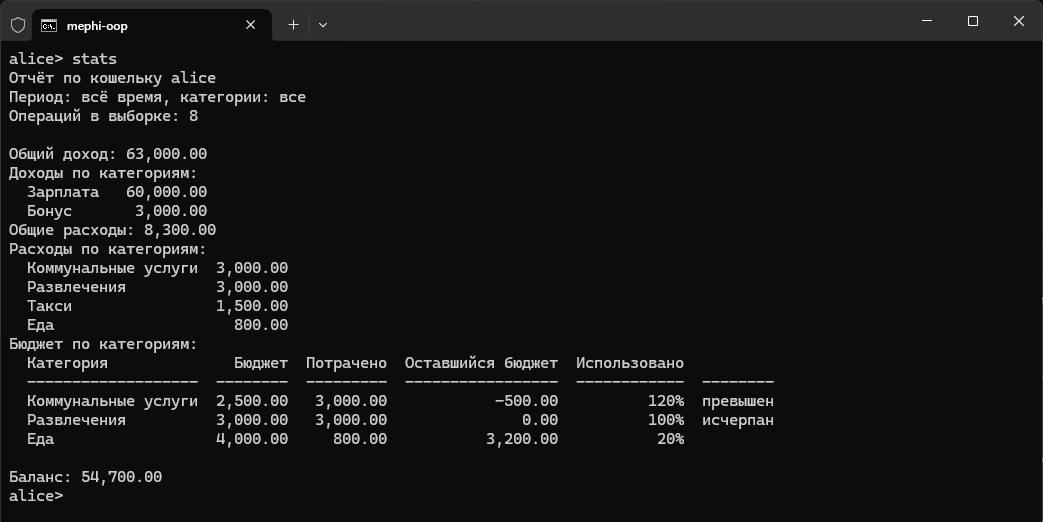
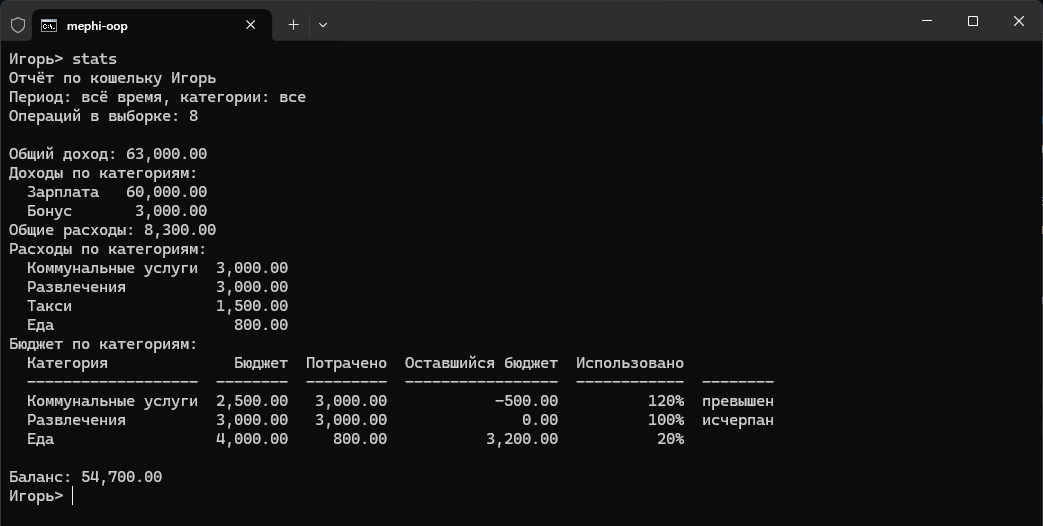
Логин на кириллице, скриншоты с пользователем Игорь

diff --git a/src/main/java/ru/mephi/finance/service/AuthService.java b/src/main/java/ru/mephi/finance/service/AuthService.java
@@ -13,7 +13,7 @@ import java.util.regex.Pattern;
 
 public final class AuthService {
 
-    private static final Pattern LOGIN = Pattern.compile("[A-Za-z0-9_.-]{3,32}");
+    private static final Pattern LOGIN = Pattern.compile("[\\p{L}\\p{N}_.-]{3,32}");
     private static final int MIN_PASSWORD_LENGTH = 4;
     private static final int MAX_PASSWORD_LENGTH = 64;
 
@@ -56,7 +56,7 @@ public final class AuthService {
     private void validateLogin(String login) {
         if (login == null || !LOGIN.matcher(login).matches()) {
             throw new ValidationException(
-                    "Логин должен состоять из 3-32 символов: латинские буквы, цифры, знаки _ . -");
+                    "Логин должен состоять из 3-32 символов: буквы, цифры, знаки _ . -");
         }
     }
 

diff --git a/src/test/java/ru/mephi/finance/service/AuthServiceTest.java b/src/test/java/ru/mephi/finance/service/AuthServiceTest.java
@@ -43,6 +43,13 @@ public final class AuthServiceTest {
     }
 
     @Test
+    public void cyrillicLoginIsAccepted() {
+        auth.register("Игорь", "123123");
+
+        assertEquals("Игорь", auth.authenticate("Игорь", "123123").login());
+    }
+
+    @Test
     public void duplicateLoginIsRejected() {
         auth.register("alice", "secret123");
 
@@ -50,7 +57,7 @@ public final class AuthServiceTest {
     }
 
     @ParameterizedTest
-    @ValueSource(strings = {"ab", "имя", "with space", "a/b"})
+    @ValueSource(strings = {"ab", "Иг", "with space", "a/b", "a\\b"})
     public void invalidLoginIsRejected(String login) {
         assertThrows(ValidationException.class, () -> auth.register(login, "secret123"));
     }

diff --git a/src/main/java/ru/mephi/finance/cli/command/RegisterCommand.java b/src/main/java/ru/mephi/finance/cli/command/RegisterCommand.java
@@ -27,7 +27,7 @@ public final class RegisterCommand implements Command {
 
     @Override
     public List<String> examples() {
-        return List.of("register alice secret123");
+        return List.of("register Игорь 123123");
     }
 
     @Override

diff --git a/src/main/java/ru/mephi/finance/cli/command/LoginCommand.java b/src/main/java/ru/mephi/finance/cli/command/LoginCommand.java
@@ -28,7 +28,7 @@ public final class LoginCommand implements Command {
 
     @Override
     public List<String> examples() {
-        return List.of("login alice secret123");
+        return List.of("login Игорь 123123");
     }
 
     @Override

diff --git a/README.md b/README.md
@@ -147,6 +147,6 @@ build\install\mephi-oop\bin\mephi-oop.bat      # Windows
 
 ![Тесты](docs/screenshots/15-tests.png)
 
-70 тестов. Кроме обычных unit-тестов есть `FinanceScenarioTest`: он запускает приложение и передаёт ему команды, в том числе пример из задания.
+72 теста. Кроме обычных unit-тестов есть `FinanceScenarioTest`: он запускает приложение и передаёт ему команды, в том числе пример из задания.
 
 `./gradlew build` вместе с тестами проверяет стиль кода через Checkstyle и строит отчёт о покрытии в `build/reports/jacoco/test/html/index.html`, покрытие около 84%. Те же проверки запускаются в GitHub Actions при каждом push в `main`.
